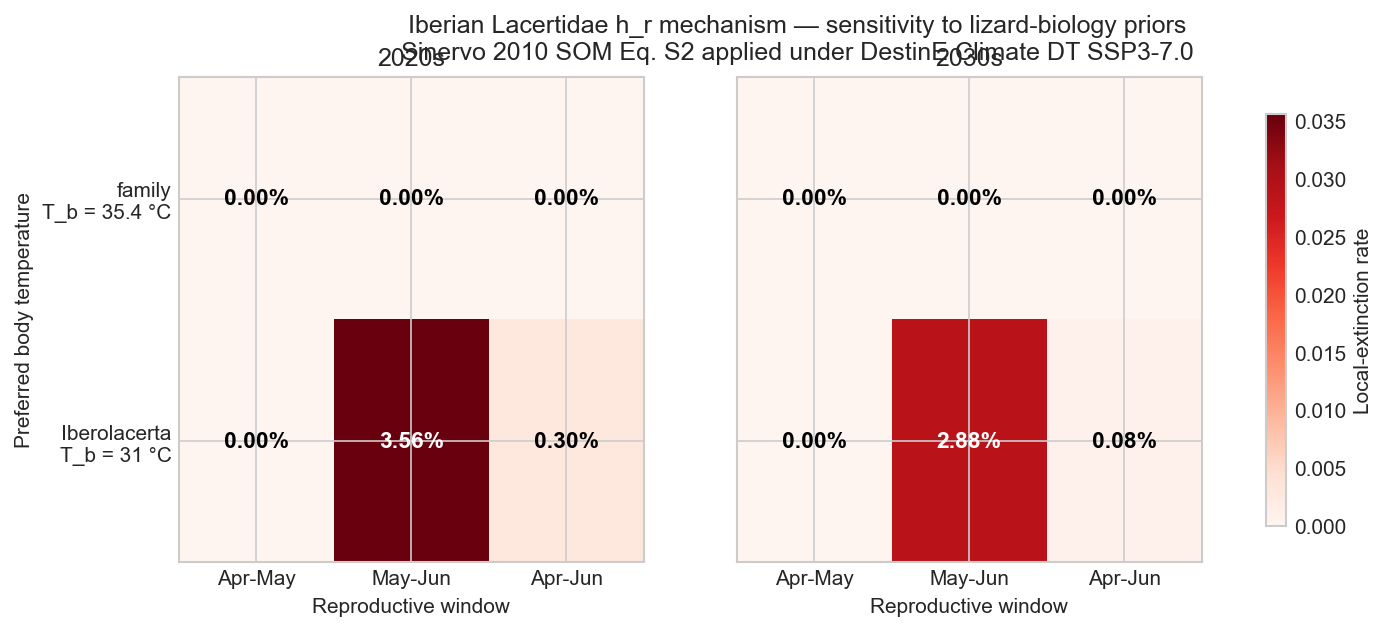
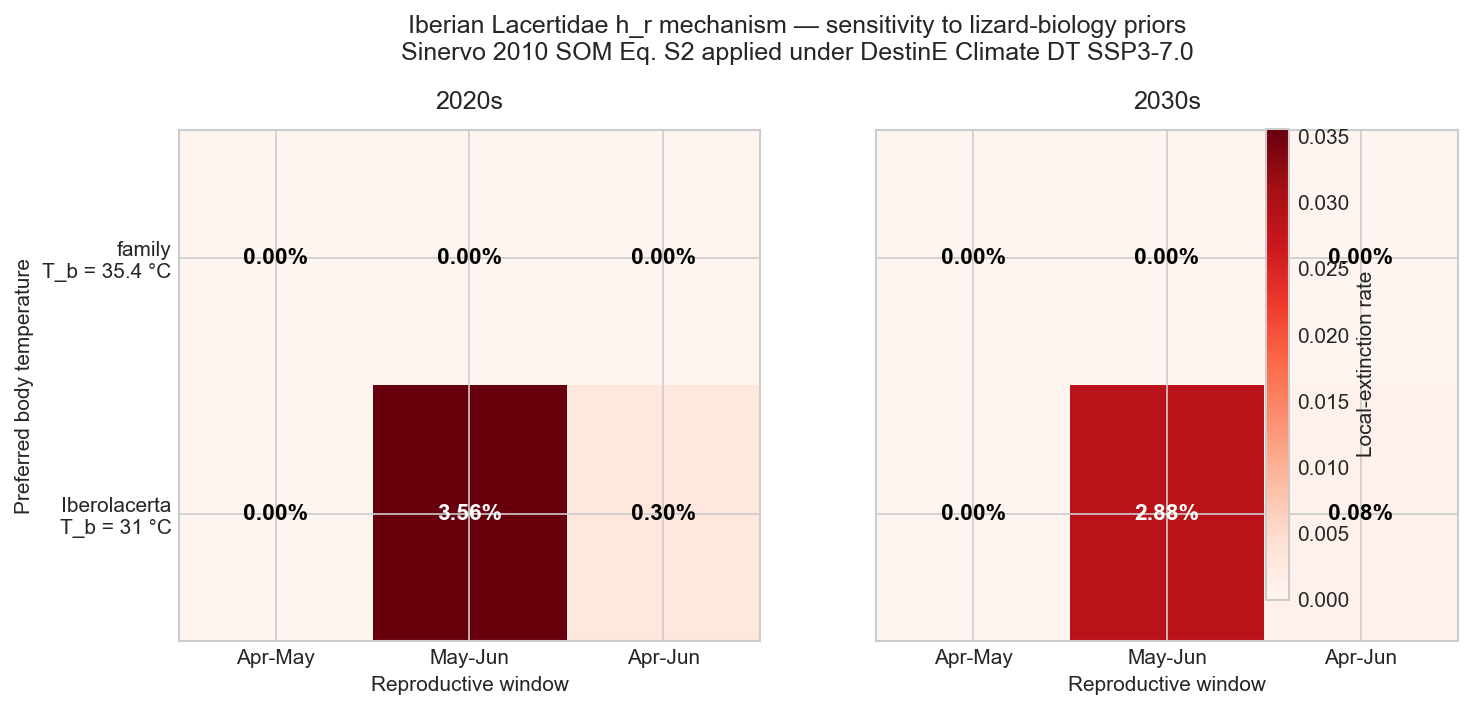
Phase 2 pass 2 main-figure layout fix — suptitle no longer collides with panel titles
Anne flagged that figures/main_result.png had overlapping text where the
two-line suptitle ("Iberian Lacertidae h_r mechanism — sensitivity ... /
Sinervo 2010 SOM Eq. S2 applied under DestinE ...") bled into the
"2020s" and "2030s" panel titles.

Root cause: matplotlib defaults to suptitle y=0.98 which puts it on top
of the subplot title row when both are present. With the default
subplots_adjust top, there is not enough vertical space for both.

Fix (three small changes to the main_result block in 04_figures.py):
- Bumped figsize from (11, 4.2) to (11, 4.8) for an extra inch of
  vertical room.
- Added `fig.subplots_adjust(top=0.82)` to reserve the top 18 % for the
  suptitle, and pinned the suptitle to `y=0.98` (top of the figure).
- Added `pad=10` to the subplot titles so they sit slightly below the
  reserved suptitle zone with breathing room.

Saved figure now reads cleanly: suptitle line 1 ("Iberian Lacertidae
h_r mechanism — sensitivity to lizard-biology priors"), line 2
("Sinervo 2010 SOM Eq. S2 applied under DestinE Climate DT SSP3-7.0"),
then "2020s" and "2030s" panel titles below with no overlap.

No content or data change. Numbers identical: baseline + S1a + S1b +
S2 all 0.00 %; S3a 3.56 % (2020s) / 2.88 % (2030s); S3b 0.30 % / 0.08 %.

diff --git a/notebooks/04_figures.py b/notebooks/04_figures.py
@@ -117,14 +117,14 @@ vmax = float(np.nanmax([grid_2020s, grid_2030s]))
 if vmax == 0:
     vmax = 0.05  # ensure a visible colour ramp even when all zero
 
-fig, axes = plt.subplots(1, 2, figsize=(11, 4.2), sharey=True)
+fig, axes = plt.subplots(1, 2, figsize=(11, 4.8), sharey=True)
 for ax, grid, decade in zip(axes, [grid_2020s, grid_2030s], ["2020s", "2030s"]):
     im = ax.imshow(grid, cmap="Reds", vmin=0, vmax=vmax, aspect="auto")
     ax.set_xticks(range(len(WINDOWS)))
     ax.set_xticklabels(WINDOW_LABELS)
     ax.set_yticks(range(len(T_BS)))
     ax.set_yticklabels(T_B_LABELS)
-    ax.set_title(f"{decade}", fontsize=12)
+    ax.set_title(f"{decade}", fontsize=12, pad=10)
     # Annotate each cell with the rate.
     for i in range(len(T_BS)):
         for j in range(len(WINDOWS)):
@@ -140,10 +140,14 @@ for ax, grid, decade in zip(axes, [grid_2020s, grid_2030s], ["2020s", "2030s"]):
 
 axes[0].set_ylabel("Preferred body temperature")
 fig.colorbar(im, ax=axes, shrink=0.85, label="Local-extinction rate")
+# Reserve top 15 % of the figure for the two-line suptitle so it does
+# not collide with the panel titles ("2020s" / "2030s"). bbox_inches=
+# "tight" then crops the saved figure to the visible content.
+fig.subplots_adjust(top=0.82)
 fig.suptitle(
     "Iberian Lacertidae h_r mechanism — sensitivity to lizard-biology priors\n"
     "Sinervo 2010 SOM Eq. S2 applied under DestinE Climate DT SSP3-7.0",
-    fontsize=12,
+    fontsize=12, y=0.98,
 )
 
 fig.savefig(FIG_DIR / "main_result.png", dpi=DPI, bbox_inches="tight")